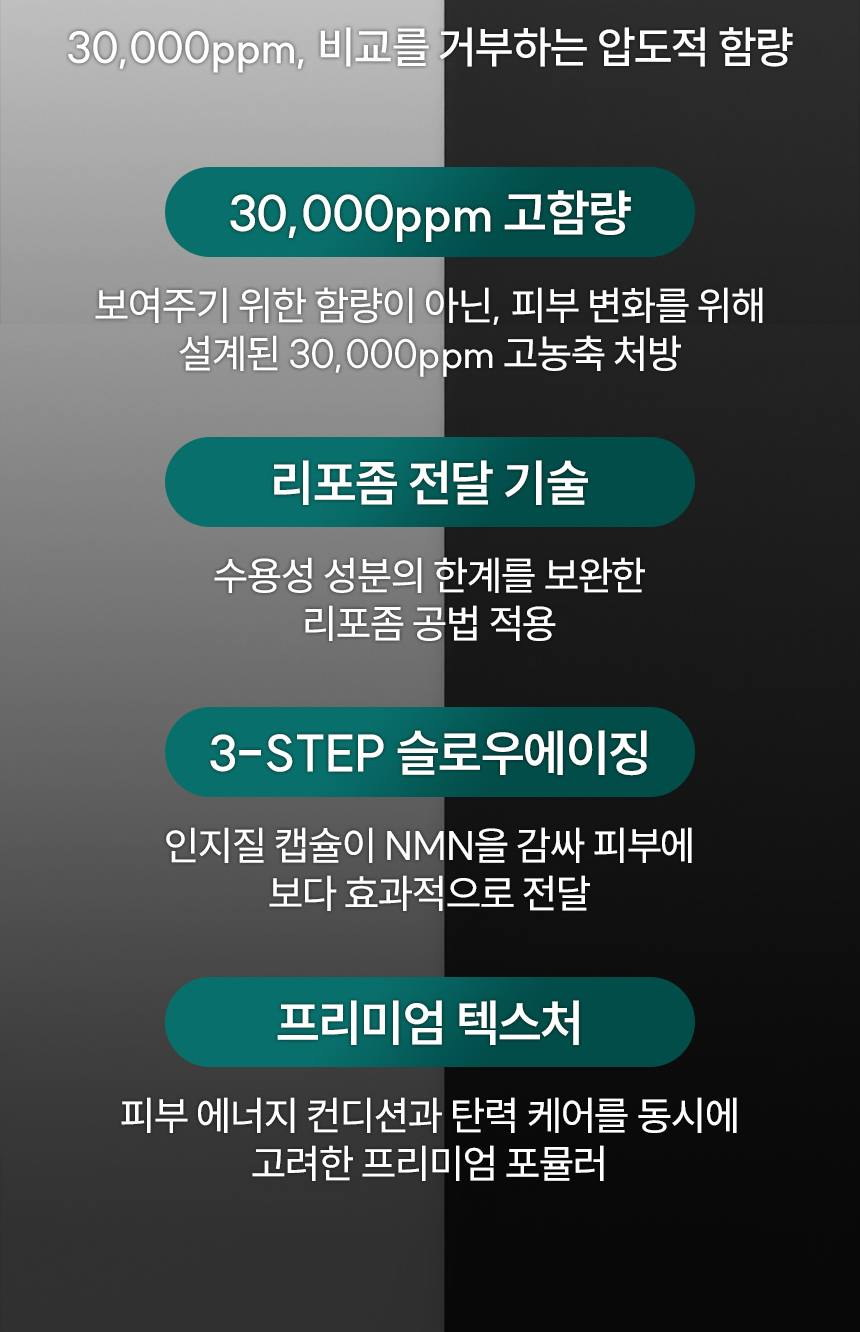
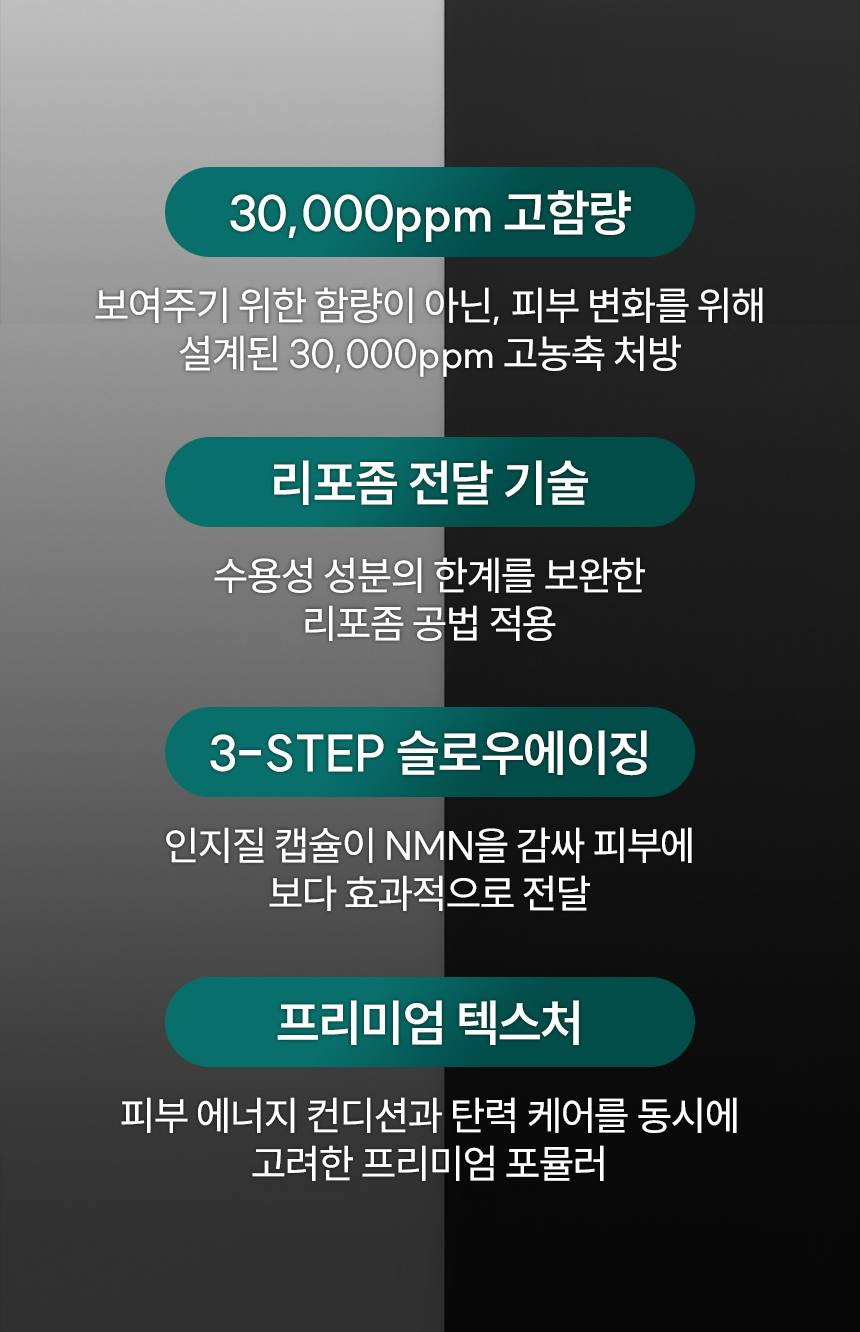
NMN 상세 - 최상급·비교광고·미실증 수치 4곳 재판정해 교체
8/28 회색지대 되돌리기 때 기준 ②(별표5 정면 위반)에 해당하는 박스를
회색으로 잘못 분류해 원본 문구가 살아 있었다. 원본 조각을 잘라 읽고 가려냈다.

  "30,000ppm 안티에이징의 압도적 마침표"        → 30,000ppm 안티에이징 케어
  "30,000ppm, 비교를 거부하는 압도적 함량"      → 30,000ppm, 표시 함량 그대로
  "비교를 거부하는 압도적 함량"                 → 표시 함량 그대로 담은
  "30,000ppm이라는 압도적인 기준을 완성했습니다" → 30,000ppm이라는 기준을 정했습니다
  "수치로 증명된 프리미엄 케어를 원하는 분"      → 수치를 공개한 프리미엄 케어를 원하는 분

안티에이징 자체는 유지한다 - 지침 별표2 비고에 따라 주름개선 등 기능성 효능을 통한
피부노화 완화 표현은 기능성화장품 보고자료를 근거로 쓸 수 있다(보고 4건 보유).

nmn-26 은 세로보간이 위 제목 색을 끌어와 줄무늬가 남아 흰색 채우기로 바꾸고,
오버레이 x 를 같은 블록 다른 줄에 맞췄다.

Changed region(s): [[0.0907, 0.0, 0.9372, 0.0616]]

diff --git a/detail/nmn.html b/detail/nmn.html
@@ -122,20 +122,20 @@
 .nmnn-buy{padding:16px 40px;border-radius:12px;background:#111;color:#fff;font-size:17px;font-weight:800;display:inline-block;margin-top:24px;text-decoration:none}
 </style>
 <div class="origstack">
-<figure><img src="origfix/nmn-01.jpg" width="860" height="1599" alt="파머시안 NMN 30000 크림 30g 상세 1"><span style="--x:150;--y:150;--w:492;--h:60;--fs:42;--c:#ffffff;--fw:400;--lh:1.5"><em>PHARMACIAN</em></span></figure>
+<figure><img src="origfix/nmn-01.jpg" width="860" height="1599" alt="파머시안 NMN 30000 크림 30g 상세 1"><span style="--x:150;--y:150;--w:492;--h:60;--fs:42;--c:#ffffff;--fw:400;--lh:1.5"><em>PHARMACIAN</em></span><span style="--x:143;--y:481;--w:574;--h:53;--fs:30;--c:#dcdcdc;--fw:400;--lh:1.5"><em>30,000ppm 안티에이징 케어</em></span></figure>
 <figure><img src="origfix/nmn-02.jpg" width="860" height="1077" alt="파머시안 NMN 30000 크림 30g 상세 2"></figure>
 <figure><img src="origfix/nmn-03.jpg" width="860" height="1296" alt="파머시안 NMN 30000 크림 30g 상세 3" loading="lazy"></figure>
 <figure><img src="origfix/nmn-04.jpg" width="860" height="1421" alt="파머시안 NMN 30000 크림 30g 상세 4" loading="lazy"></figure>
 <figure><img src="origfix/nmn-05.jpg" width="860" height="1701" alt="파머시안 NMN 30000 크림 30g 상세 5" loading="lazy"></figure>
 <figure><img src="origfix/nmn-06.jpg" width="860" height="1202" alt="파머시안 NMN 30000 크림 30g 상세 6" loading="lazy"><span style="--x:315;--y:890;--w:248;--h:37;--fs:27;--c:#1a1210;--fw:400;--lh:1.5"><em>FIRMNESS</em></span><span style="--x:600;--y:929;--w:190;--h:43;--fs:24;--c:#1a1210;--fw:400;--lh:1.5"><em>(보습 보호)</em></span><span style="--x:598;--y:982;--w:224;--h:154;--fs:21;--c:#1a1210;--fw:400;--lh:1.5"><em>세라마이드엔피<small>피부 표면을 매끄럽게<br>감싸 보습을 지킵니다.</small></em></span></figure>
 <figure><img src="origfix/nmn-07.jpg" width="860" height="1717" alt="파머시안 NMN 30000 크림 30g 상세 7" loading="lazy"><span style="--x:150;--y:214;--w:492;--h:60;--fs:42;--c:#ffffff;--fw:400;--lh:1.5"><em>PHARMACIAN</em></span></figure>
-<figure><img src="origfix/nmn-08.jpg" width="860" height="1332" alt="파머시안 NMN 30000 크림 30g 상세 8" loading="lazy"></figure>
+<figure><img src="origfix/nmn-08.jpg" width="860" height="1332" alt="파머시안 NMN 30000 크림 30g 상세 8" loading="lazy"><span style="--x:40;--y:20;--w:780;--h:60;--fs:30;--c:#d8d8d8;--fw:400;--lh:1.5"><em>30,000ppm, 표시 함량 그대로</em></span></figure>
 <figure><img src="origfix/nmn-09.jpg" width="860" height="913" alt="파머시안 NMN 30000 크림 30g 상세 9" loading="lazy"><span style="--x:60;--y:772;--w:740;--h:108;--fs:26;--c:#ffffff;--fw:400;--lh:1.6"><em>NMN은 화장품에 쓰이는 성분으로,<br>이 제품에 30,000ppm을 표시 함량 그대로 담았습니다.</em></span></figure>
 <figure><img src="origfix/nmn-10.jpg" width="860" height="1265" alt="파머시안 NMN 30000 크림 30g 상세 10" loading="lazy"><span style="--x:40;--y:34;--w:780;--h:186;--fs:25;--c:#ffffff;--fw:400;--lh:1.62"><em>모노-뉴클레오타이드를 30,000ppm,<br>표시 함량 그대로 담았습니다.<br>리포좀 공법으로 감싸 피부에 안정적으로 전달합니다.</em></span></figure>
 <figure><img src="origfix/nmn-11.jpg" width="860" height="880" alt="파머시안 NMN 30000 크림 30g 상세 11" loading="lazy"></figure>
 <figure><img src="origfix/nmn-12.jpg" width="860" height="1118" alt="파머시안 NMN 30000 크림 30g 상세 12" loading="lazy"></figure>
 <figure><img src="origfix/nmn-13.jpg" width="860" height="1455" alt="파머시안 NMN 30000 크림 30g 상세 13" loading="lazy"></figure>
-<figure><img src="origfix/nmn-14.jpg" width="860" height="1339" alt="파머시안 NMN 30000 크림 30g 상세 14" loading="lazy"></figure>
+<figure><img src="origfix/nmn-14.jpg" width="860" height="1339" alt="파머시안 NMN 30000 크림 30g 상세 14" loading="lazy"><span style="--x:95;--y:129;--w:670;--h:64;--fs:45;--c:#1a1210;--fw:700;--lh:1.5"><em>표시 함량 그대로 담은</em></span><span style="--x:125;--y:389;--w:608;--h:40;--fs:25;--c:#444;--fw:400;--lh:1.5"><em>30,000ppm이라는 기준을 정했습니다.</em></span></figure>
 <figure><img src="origfix/nmn-15.jpg" width="860" height="880" alt="파머시안 NMN 30000 크림 30g 상세 15" loading="lazy"></figure>
 <figure><img src="origfix/nmn-16.jpg" width="860" height="1485" alt="파머시안 NMN 30000 크림 30g 상세 16" loading="lazy"></figure>
 <figure><img src="origfix/nmn-17.jpg" width="860" height="912" alt="파머시안 NMN 30000 크림 30g 상세 17" loading="lazy"><span style="--x:80;--y:336;--w:698;--h:62;--fs:43;--c:#1a1210;--fw:700;--lh:1.5"><em>에너지 · 탄력 · 보습으로 완성된</em></span></figure>
@@ -147,7 +147,7 @@
 <figure><img src="origfix/nmn-23.jpg" width="860" height="1120" alt="파머시안 NMN 30000 크림 30g 상세 23" loading="lazy"></figure>
 <figure><img src="origfix/nmn-24.jpg" width="860" height="1442" alt="파머시안 NMN 30000 크림 30g 상세 24" loading="lazy"></figure>
 <figure><img src="origfix/nmn-25.jpg" width="860" height="1088" alt="파머시안 NMN 30000 크림 30g 상세 25" loading="lazy"></figure>
-<figure><img src="origfix/nmn-26.jpg" width="860" height="1719" alt="파머시안 NMN 30000 크림 30g 상세 26" loading="lazy"></figure>
+<figure><img src="origfix/nmn-26.jpg" width="860" height="1719" alt="파머시안 NMN 30000 크림 30g 상세 26" loading="lazy"><span class="l" style="--x:113;--y:318;--w:587;--h:34;--fs:22;--c:#555;--fw:400;--lh:1.5"><em>수치를 공개한 프리미엄 케어를 원하는 분</em></span></figure>
 <figure><img src="origfix/nmn-27.jpg" width="860" height="1641" alt="파머시안 NMN 30000 크림 30g 상세 27" loading="lazy"></figure>
 <figure><img src="origfix/nmn-28.jpg" width="860" height="1120" alt="파머시안 NMN 30000 크림 30g 상세 28" loading="lazy"></figure>
 <figure><img src="origfix/nmn-29.jpg" width="860" height="960" alt="파머시안 NMN 30000 크림 30g 상세 29" loading="lazy"></figure>
